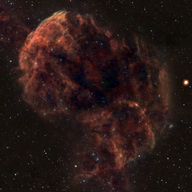
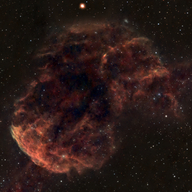
Mairan Nebula

diff --git a/Stories/Astropedia.md b/Stories/Astropedia.md
@@ -69,6 +69,8 @@
 | <img src='..//Stories//Pics/M13_Hercules_Globular_Cluster.jpg'> |Messier 13, or M13 (also designated NGC 6205 and sometimes called the Great Globular Cluster in Hercules, the Hercules Globular Cluster, or the Great Hercules Cluster), is a globular cluster of several hundred thousand stars in the constellation of Hercules. |
 | [M3 Globular Cluster](..//Stories//M3_Globular_Cluster.md)  |	|
 | <img src='..//Stories//Pics/M3_Globular_Cluster.jpg'> |It was discovered on May 3, 1764,[10] and was the first Messier object to be discovered by Charles Messier himself. Messier originally mistook the object for a nebula without stars. This mistake was corrected after the stars were resolved by William Herschel around 1784.[11] Since then, it has become one of the best-studied globular clusters. Identification of the cluster's unusually large variable star population was begun in 1913 by American astronomer Solon Irving Bailey and new variable members continue to be identified up through 2004.[12] |
+| [Mairan Nebula](..//Stories//Mairan_Nebula.md)  |	|
+| <img src='..//Stories//Pics/Mairan_Nebula.jpg'> |Messier 43 or M43, also known as De Mairan's Nebula and NGC 1982, is a star-forming nebula with a prominent H II region in the equatorial constellation of Orion. It was discovered by the French scientist Jean-Jacques d'Ortous de Mairan some time before 1731,[3] then catalogued by Charles Messier in 1769.[a] It is physically part of the Orion Nebula (Messier 42), separate from that main nebula by a dense lane of dust known as the northeast dark lane.[5] It is part of the much larger Orion molecular cloud complex.v The main ionizing star in this nebula is the quadruple star system NU Orionis (HD 37061), the focus of the H II region, 1,360 ± 30 ly (417.0 ± 9.2 pc) away.[6] This star system is not hot enough to produce significant amounts of [O III] emission, unlike the Trapezium in the Orion Nebula.[7] |
 | [Markarian Chain](..//Stories//Markarian_Chain.md)  |	|
 | <img src='..//Stories//Pics/Markarian_Chain.jpg'> |Markarian's Chain is a stretch of galaxies that forms part of the Virgo Cluster. When viewed from Earth, the galaxies lie along a smoothly curved line. Charles Messier first discovered two of the galaxies, M84 and M86, in 1781. The other galaxies seen in the chain were discovered by William Herschel[1] and are now known primarily by their catalog numbers in John Louis Emil Dreyer's New General Catalogue, published in 1888.[2] It was ultimately named after the Armenian astrophysicist, Benjamin Markarian, who discovered their common motion in the early 1960s.[3] Member galaxies include M84 (NGC 4374), M86 (NGC 4406), NGC 4477, NGC 4473, NGC 4461, NGC 4458, NGC 4438 and NGC 4435. It is located at RA 12h 27m and Dec +13° 10′. The bright members of the chain are visible through small telescopes. Larger telescopes can be used to view the fainter galaxies .[2] Near the center there appear the pair of interacting galaxies NGC 4438 and NGC 4435, about 50 million light-years away, known to some as Markarian's Eyes. At least seven galaxies in the chain appear to move coherently, although others appear to be superposed by chance.[4] Six of the points on the chain can be marked by galaxies. The other two points are pairs of galaxies |
 | [Monkey Head Nebula](..//Stories//Monkey_Head_Nebula.md)  |	|

diff --git a/Stories/Mairan_Nebula.md b/Stories/Mairan_Nebula.md
@@ -1,0 +1,26 @@
+# ![](..//Imaging//Common/pyl-tiny.png) Mairan Nebula
+![](..//Imaging//HD/Mairan_Nebula+00+co.jpg)
+
+Messier 43 or M43, also known as De Mairan's Nebula and NGC 1982, is a star-forming nebula with a prominent H II region in the equatorial constellation of Orion. It was discovered by the French scientist Jean-Jacques d'Ortous de Mairan some time before 1731,[3] then catalogued by Charles Messier in 1769.[a] It is physically part of the Orion Nebula (Messier 42), separate from that main nebula by a dense lane of dust known as the northeast dark lane.[5] It is part of the much larger Orion molecular cloud complex.v The main ionizing star in this nebula is the quadruple star system NU Orionis (HD 37061), the focus of the H II region, 1,360 ± 30 ly (417.0 ± 9.2 pc) away.[6] This star system is not hot enough to produce significant amounts of [O III] emission, unlike the Trapezium in the Orion Nebula.[7]
+
+
+
+[![](..//Imaging//Common/Wikipedia.png) Read more](https://en.wikipedia.org/wiki/Messier_43)
+## Plate solving 
+
+
+![IMG](..//Imaging//HD/Mairan_Nebula_Annotated.jpg)
+
+
+| Globe | Close | Very close |
+| ----- | ----- | ----- |
+|![IMG](..//Imaging//HD/Mairan_Nebula_Globe.jpg) |![IMG](..//Imaging//HD/Mairan_Nebula_Close.jpg) |![IMG](..//Imaging//HD/Mairan_Nebula_Closer.jpg) |
+
+## Details
+
+
+## Gallery
+![IMG](..//Imaging//HD/Mairan_Nebula+00+co.jpg) 
+
+![](..//Imaging//HD/Mairan_Nebula+00+bg.jpg)
+![](..//Imaging//HD/Mairan_Nebula+00+bn.jpg)
